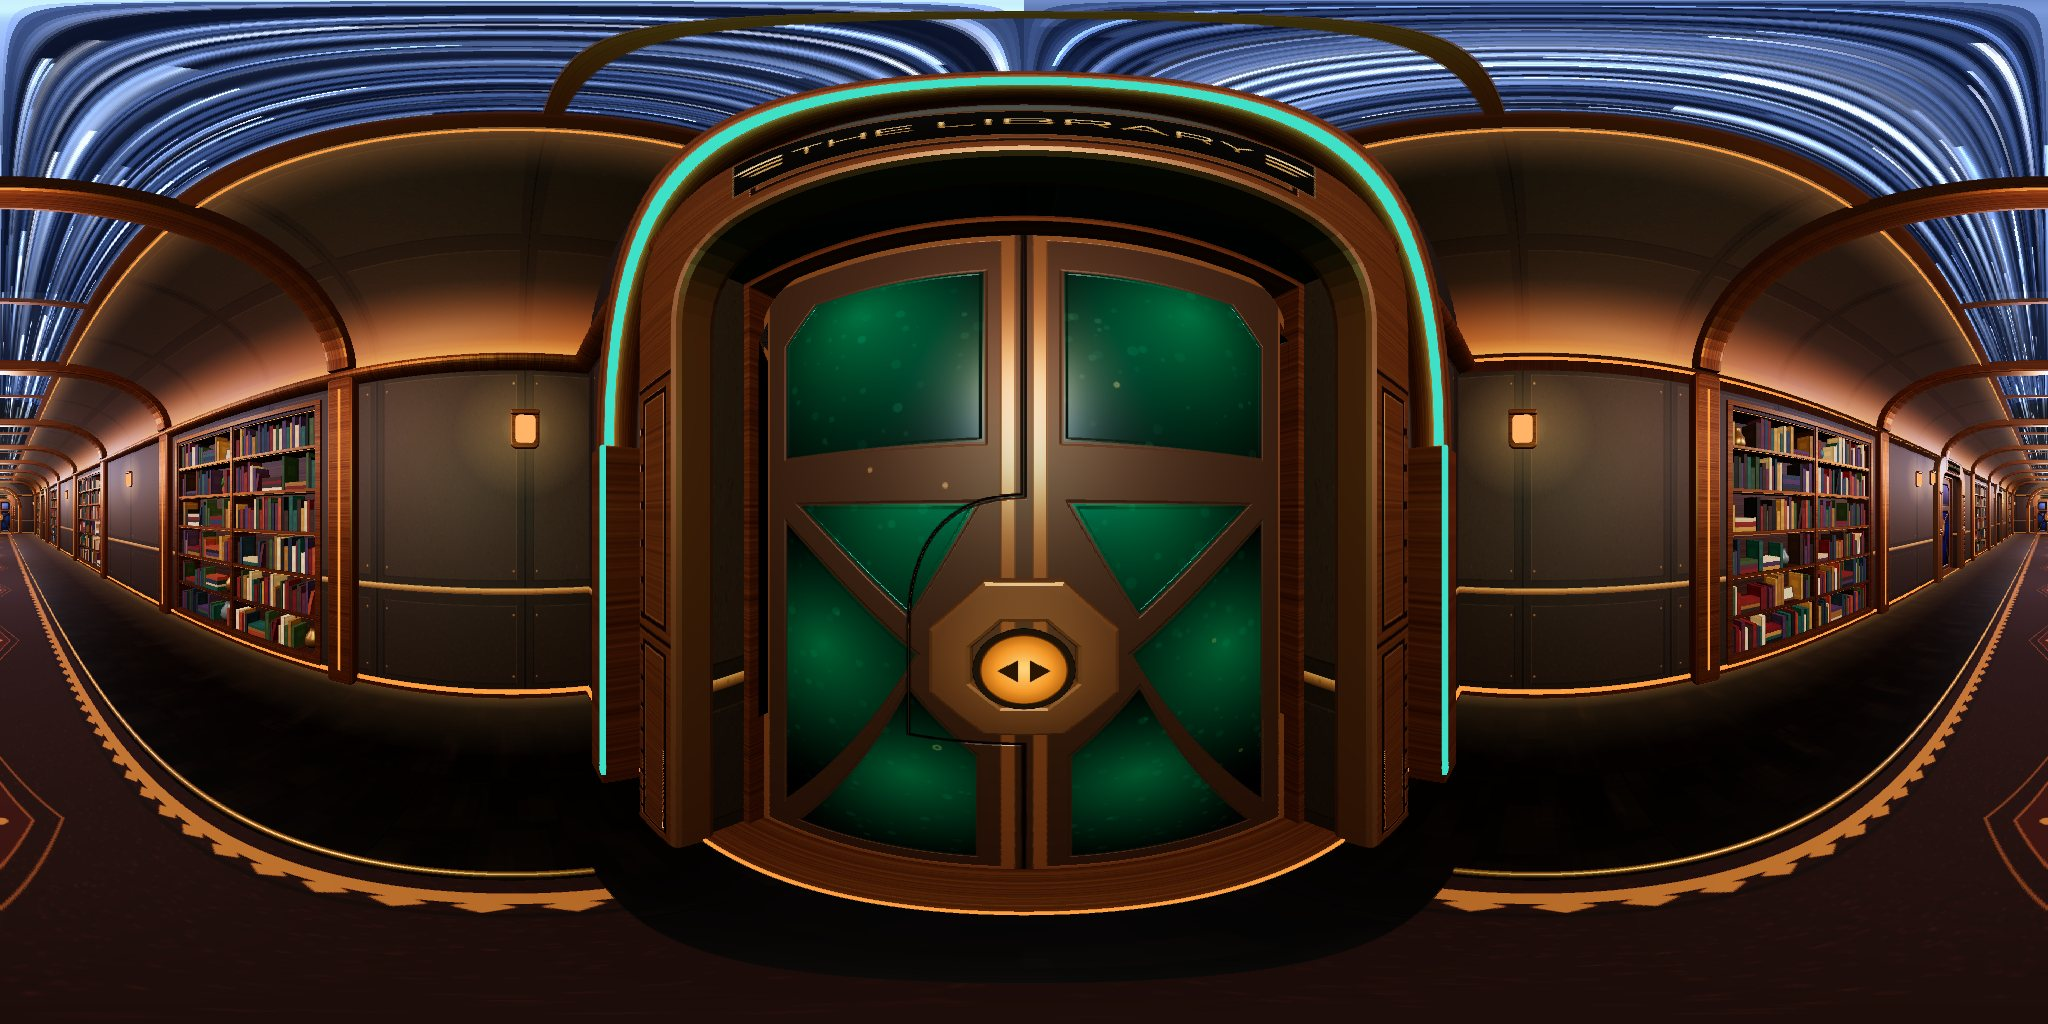
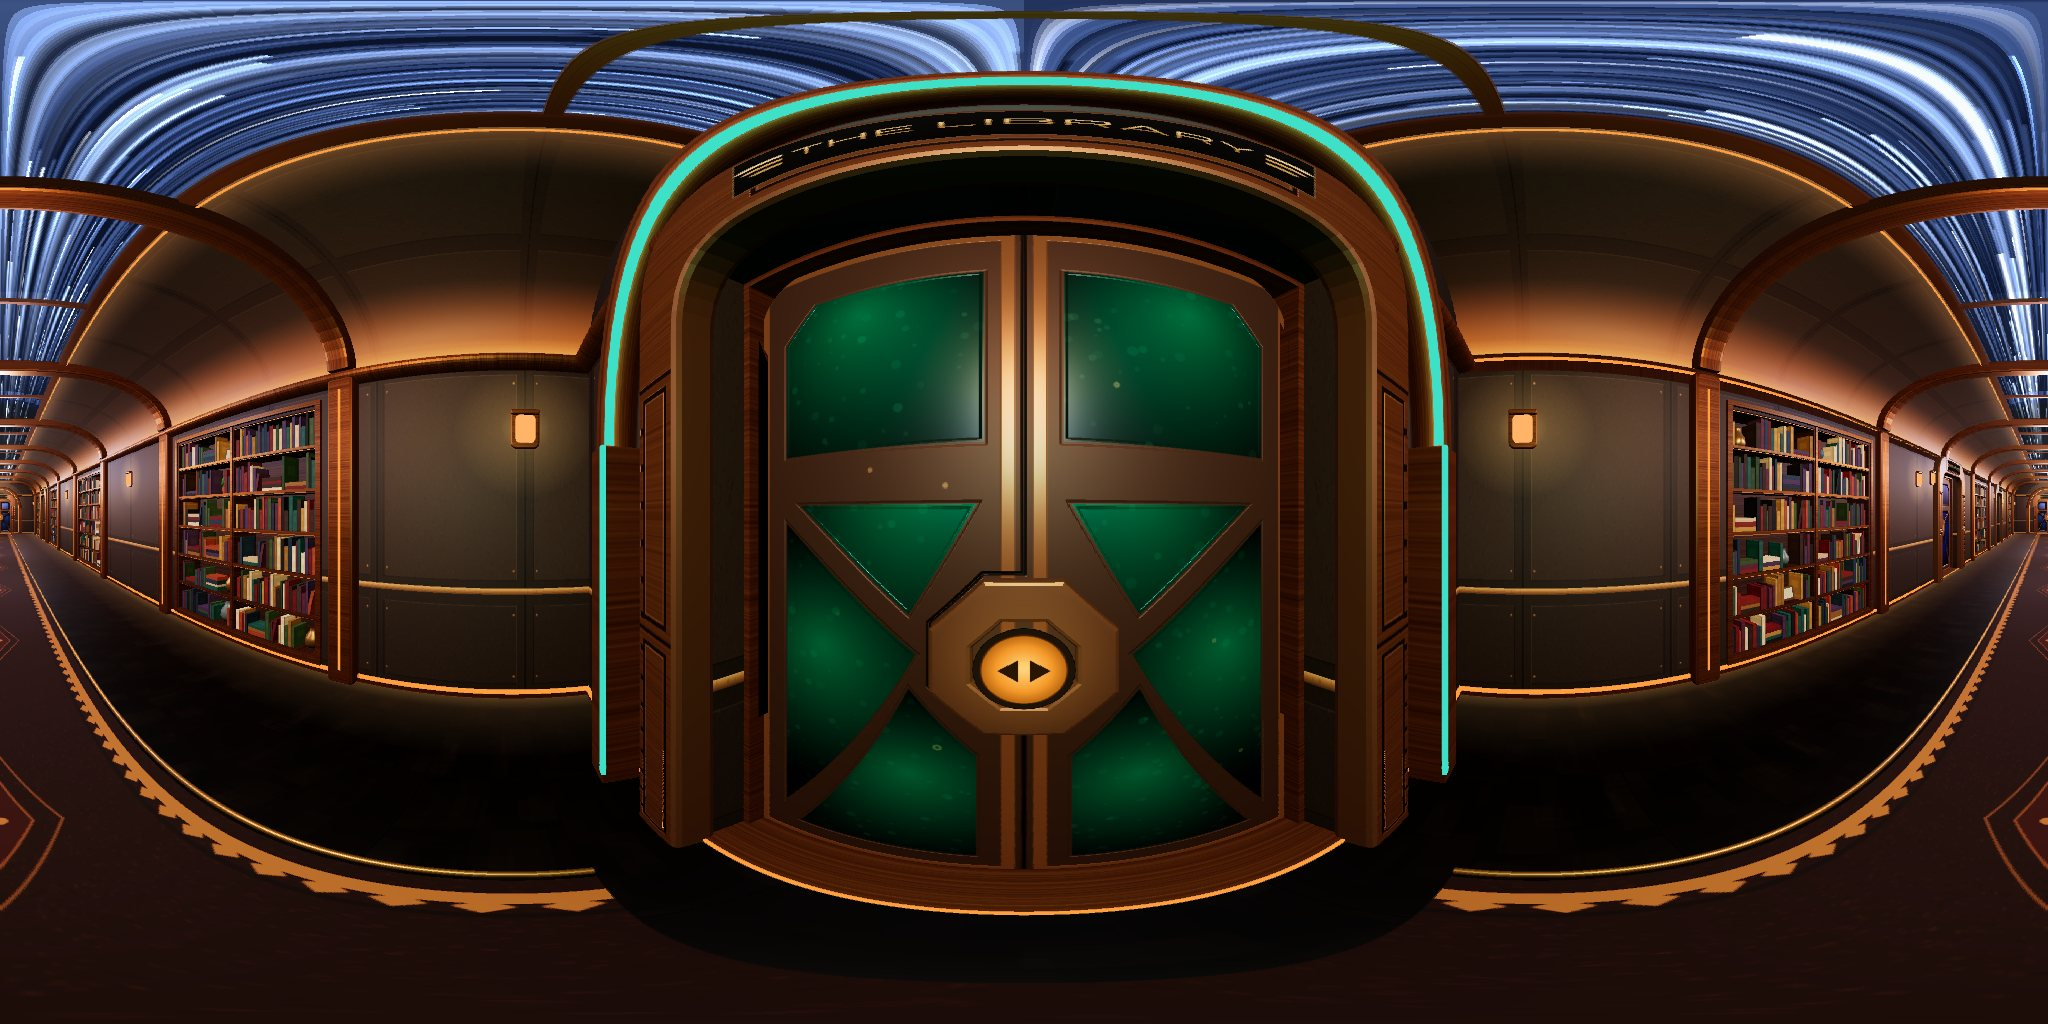
Doors: seam hugs the left half of the octagon hub (user sketch); hub rides on the right leaf
Claude-Session: https://claude.ai/code/session_015swmRW9rk9HZt8JyLRwsXT

diff --git a/door.js b/door.js
@@ -39,9 +39,11 @@
 
   // ───────── shapes ─────────
   function seam(sh, up) {               // seam between the leaves, bottom→top (up) or top→bottom; jogs round the hub
-    var y0 = HUB_Y - 0.3, y1 = HUB_Y + 0.44;
-    if (up) { sh.lineTo(0, y0); sh.lineTo(-TONGUE, y0); sh.lineTo(-TONGUE, HUB_Y + 0.08); sh.quadraticCurveTo(-TONGUE, y1, 0, y1); sh.lineTo(0, DOOR_H); }
-    else { sh.lineTo(0, y1); sh.quadraticCurveTo(-TONGUE, y1, -TONGUE, HUB_Y + 0.08); sh.lineTo(-TONGUE, y0); sh.lineTo(0, y0); sh.lineTo(0, 0); }
+    // user sketch (Nov 24 v2): straight down the middle, then the seam hugs the LEFT half of the octagon hub and carries on
+    // straight down — the whole hub rides on the right leaf. Octagon is flat-topped, outline just outside the hub (r 0.24).
+    var R = 0.265, c = 0.924 * R, d = 0.383 * R, P = [[0, HUB_Y - c], [-d, HUB_Y - c], [-c, HUB_Y - d], [-c, HUB_Y + d], [-d, HUB_Y + c], [0, HUB_Y + c]];
+    if (up) { P.forEach(function (q) { sh.lineTo(q[0], q[1]); }); sh.lineTo(0, DOOR_H); }
+    else { P.slice().reverse().forEach(function (q) { sh.lineTo(q[0], q[1]); }); sh.lineTo(0, 0); }
   }
   function leafShape(right) {
     var sh = new THREE.Shape(), r = R_IN;
@@ -101,7 +103,7 @@
     P.all(function (x, k) {
       if (k === 'rough') return;
       x.strokeStyle = k === 'col' ? '#120c06' : '#000000'; x.lineWidth = 3; x.beginPath(); x.moveTo(X(0), Y(DOOR_H));
-      var y0 = HUB_Y - 0.3, y1 = HUB_Y + 0.44; x.lineTo(X(0), Y(y1)); x.quadraticCurveTo(X(-TONGUE), Y(y1), X(-TONGUE), Y(HUB_Y + 0.08)); x.lineTo(X(-TONGUE), Y(y0)); x.lineTo(X(0), Y(y0)); x.lineTo(X(0), Y(0)); x.stroke();
+      var R = 0.265, c = 0.924 * R, d = 0.383 * R; [[0, HUB_Y + c], [-d, HUB_Y + c], [-c, HUB_Y + d], [-c, HUB_Y - d], [-d, HUB_Y - c], [0, HUB_Y - c], [0, 0]].forEach(function (q) { x.lineTo(X(q[0]), Y(q[1])); }); x.stroke();   // same path as seam()
     });
     return { map: P.tex('col'), bump: P.tex('bump'), rough: P.tex('rough') };
   }
@@ -285,7 +287,7 @@
       var near = Math.abs(lp.x) < 0.8 && lp.z < 0.7;          // standing in the doorway: never shut the door on someone
       if (D.target === 1 && performance.now() - D.openAt > (o.holdMs || 8000) && !near) D.target = 0;
       D.p += (D.target - D.p) * Math.min(1, s * 5.5); if (Math.abs(D.target - D.p) < 0.002) D.p = D.target;
-      lL.position.x = -D.p * (LW + 0.06); lR.position.x = D.p * (LW + TONGUE + 0.08);
+      lL.position.x = -D.p * (LW + 0.06); lR.position.x = D.p * (LW + 0.25 + 0.08);   // the right leaf carries the hub's left half past the frame
       holder.visible = D.p < 0.3; portal.visible = D.p > 0.001; tapM.visible = D.p > 0.85;
       pm.uniforms.fade.value = Math.min(1, D.p * 2.5);
       if (D.flash > 0) { D.flash -= s; if (D.flash <= 0) face.material.map = D.target ? R.faces.close : R.faces.open; }

diff --git a/lounge.html b/lounge.html
@@ -15,13 +15,13 @@
   <meta property="og:image:height" content="630">
   <meta property="og:image:alt" content="The bronze SS Wayfarer in orbit above a sunlit planet.">
   <meta name="twitter:card" content="summary_large_image">
-  <script src="textures.js?v=20261124g"></script>
+  <script src="textures.js?v=20261124h"></script>
   <script src="https://aframe.io/releases/1.5.0/aframe.min.js"></script>
-  <script src="mobile.js?v=20261124g"></script>
-  <script src="door.js?v=20261124g"></script>
-  <script src="props.js?v=20261124g"></script>
-  <script src="hyperspace.js?v=20261124g"></script>
-  <script src="cats.js?v=20261124g"></script>
+  <script src="mobile.js?v=20261124h"></script>
+  <script src="door.js?v=20261124h"></script>
+  <script src="props.js?v=20261124h"></script>
+  <script src="hyperspace.js?v=20261124h"></script>
+  <script src="cats.js?v=20261124h"></script>
   <style>
     * { margin: 0; padding: 0; box-sizing: border-box; }
     body { overflow: hidden; background: #000; }

diff --git a/library.html b/library.html
@@ -18,13 +18,13 @@
   <meta name="theme-color" content="#000208">
   <meta name="apple-mobile-web-app-capable" content="yes">
   <meta name="mobile-web-app-capable" content="yes">
-  <script src="textures.js?v=20261124g"></script>
+  <script src="textures.js?v=20261124h"></script>
   <script src="https://aframe.io/releases/1.5.0/aframe.min.js"></script>
-  <script src="brain.js?v=20261124g"></script>
-  <script src="mobile.js?v=20261124g"></script>
-  <script src="door.js?v=20261124g"></script>
-  <script src="props.js?v=20261124g"></script>
-  <script src="hyperspace.js?v=20261124g"></script>
+  <script src="brain.js?v=20261124h"></script>
+  <script src="mobile.js?v=20261124h"></script>
+  <script src="door.js?v=20261124h"></script>
+  <script src="props.js?v=20261124h"></script>
+  <script src="hyperspace.js?v=20261124h"></script>
   <style>
     * { margin: 0; padding: 0; box-sizing: border-box; }
     body { overflow: hidden; background: #000; }

diff --git a/index.html b/index.html
@@ -15,11 +15,11 @@
   <meta property="og:image:height" content="630">
   <meta property="og:image:alt" content="The bronze SS Wayfarer in orbit above a sunlit planet.">
   <meta name="twitter:card" content="summary_large_image">
-  <script src="textures.js?v=20261124g"></script>
+  <script src="textures.js?v=20261124h"></script>
   <script src="https://aframe.io/releases/1.5.0/aframe.min.js"></script>
-  <script src="mobile.js?v=20261124g"></script>
-  <script src="door.js?v=20261124g"></script>
-  <script src="hyperspace.js?v=20261124g"></script>
+  <script src="mobile.js?v=20261124h"></script>
+  <script src="door.js?v=20261124h"></script>
+  <script src="hyperspace.js?v=20261124h"></script>
   <style>
     * { margin: 0; padding: 0; box-sizing: border-box; }
     body { overflow: hidden; background: #000; }

diff --git a/holodeck.html b/holodeck.html
@@ -26,12 +26,12 @@
     g.beginPath(); g.moveTo(0,0); g.lineTo(0,128); g.stroke();
     window.GRID_TEX = gc.toDataURL();
   </script>
-  <script src="textures.js?v=20261124g"></script>
+  <script src="textures.js?v=20261124h"></script>
   <script src="https://aframe.io/releases/1.5.0/aframe.min.js"></script>
-  <script src="mobile.js?v=20261124g"></script>
-  <script src="door.js?v=20261124g"></script>
-  <script src="props.js?v=20261124g"></script>
-  <script src="stargarden.js?v=20261124g"></script>
+  <script src="mobile.js?v=20261124h"></script>
+  <script src="door.js?v=20261124h"></script>
+  <script src="props.js?v=20261124h"></script>
+  <script src="stargarden.js?v=20261124h"></script>
   <style>
     * { margin:0; padding:0; box-sizing:border-box; }
     body { overflow:hidden; background:#000; }

diff --git a/bridge.html b/bridge.html
@@ -16,10 +16,10 @@
   <meta property="og:image:alt" content="The bronze SS Wayfarer in orbit above a sunlit planet.">
   <meta name="twitter:card" content="summary_large_image">
   <script src="https://aframe.io/releases/1.5.0/aframe.min.js"></script>
-  <script src="mobile.js?v=20261124g"></script>
-  <script src="door.js?v=20261124g"></script>
-  <script src="hyperspace.js?v=20261124g"></script>
-  <script src="lcars.js?v=20261124g"></script>
+  <script src="mobile.js?v=20261124h"></script>
+  <script src="door.js?v=20261124h"></script>
+  <script src="hyperspace.js?v=20261124h"></script>
+  <script src="lcars.js?v=20261124h"></script>
   <style>
     * { margin: 0; padding: 0; box-sizing: border-box; }
     body { overflow: hidden; background: #000; }

diff --git a/media.html b/media.html
@@ -16,9 +16,9 @@
   <meta property="og:image:alt" content="The bronze SS Wayfarer in orbit above a sunlit planet.">
   <meta name="twitter:card" content="summary_large_image">
   <script src="https://aframe.io/releases/1.5.0/aframe.min.js"></script>
-  <script src="mobile.js?v=20261124g"></script>
-  <script src="door.js?v=20261124g"></script>
-  <script src="props.js?v=20261124g"></script>
+  <script src="mobile.js?v=20261124h"></script>
+  <script src="door.js?v=20261124h"></script>
+  <script src="props.js?v=20261124h"></script>
   <style>
     * { margin: 0; padding: 0; box-sizing: border-box; }
     body { overflow: hidden; background: #000; }

diff --git a/hangar.html b/hangar.html
@@ -9,7 +9,7 @@
   <link rel="icon" href="/aspentrail/icons/favicon.ico">
   <script src="https://cdnjs.cloudflare.com/ajax/libs/three.js/r128/three.min.js"></script>
   <script src="https://cdn.jsdelivr.net/npm/three@0.128.0/examples/js/loaders/GLTFLoader.js"></script>
-  <script src="shipskin.js?v=20261124g"></script>
+  <script src="shipskin.js?v=20261124h"></script>
   <script src="https://cdn.jsdelivr.net/npm/three@0.128.0/examples/js/controls/OrbitControls.js"></script>
   <style>
     * { margin: 0; padding: 0; box-sizing: border-box; }

diff --git a/minigame.html b/minigame.html
@@ -17,7 +17,7 @@
   <meta name="twitter:card" content="summary_large_image">
   <script src="https://cdnjs.cloudflare.com/ajax/libs/three.js/r128/three.min.js"></script>
   <script src="https://cdn.jsdelivr.net/npm/three@0.128.0/examples/js/loaders/GLTFLoader.js"></script>
-  <script src="shipskin.js?v=20261124g"></script>
+  <script src="shipskin.js?v=20261124h"></script>
   <style>
     * { margin: 0; padding: 0; box-sizing: border-box; }
     body { overflow: hidden; background: #000; font-family: 'Courier New', monospace; }

diff --git a/CLAUDE.md b/CLAUDE.md
@@ -56,7 +56,7 @@ Rules drawn from them:
 - A-Frame 1.5.0 from the aframe.io CDN, no build step, plain HTML/JS
 - GitHub Pages deploys from branch `claude/hello-mssbj4` (site: spawnshark.github.io/aspentrail).
   Session work happens on a `claude/...` branch; it is live only after it reaches `claude/hello-mssbj4`.
-- Local scripts are loaded with `?v=<date+letter>` (Safari cached old door.js/mobile.js) — bump it in every page on each push (now 20261124g).
+- Local scripts are loaded with `?v=<date+letter>` (Safari cached old door.js/mobile.js) — bump it in every page on each push (now 20261124h).
 - Shared scripts: `textures.js` (procedural textures), `mobile.js` (touch controls, Nov 24 v3 — user: "like it was in the
   beginning"): NO bar. Two floating frosted-glass thumbsticks in the bottom corners: left = analog walk joystick, right = look
   stick; bottom-centre two round glass buttons, icons only: Gyro = VR headset, Level = spirit level. Real glassmorphism (dark
@@ -84,8 +84,8 @@ Rules drawn from them:
   in the repo) — moulded arched bronze frame with jamb blocks and side ribs; ONE nameplate per door, on the frame
   header; each leaf has a top light + X-braces to a centre octagon hub, glass tinted per room (`tint` in DOORS).
   The right leaf has a rounded tongue that carries the hub; the OPEN button sits in the hub at the door centre.
-  Left leaf slides left, right leaf slides right (with the button). User sketch: seam is not straight, it jogs
-  round the hub. Ribs, rib legs, cornice and sconces are bevelled extrusions — avoid raw boxes (user: "Minecraft").
+  Left leaf slides left, right leaf slides right (with the button). User sketch (v2, Nov 24): the seam runs straight down
+  the middle and hugs the LEFT half of the octagon hub (r 0.265 outline), so the whole hub rides out on the right leaf. Ribs, rib legs, cornice and sconces are bevelled extrusions — avoid raw boxes (user: "Minecraft").
 - **Doors are ONE shared component: `door.js`** (user, Nov 24: "feels like one game, not 6 separate games").
   Corridor uses `WAYFARER.door.create(...)`; every room calls `WAYFARER.door.roomExit('<id>')` (its old exit box is gone).
   Room exits sit on each room's +Z wall at x=0 as free-standing doors with bronze pocket housings for the leaves.
